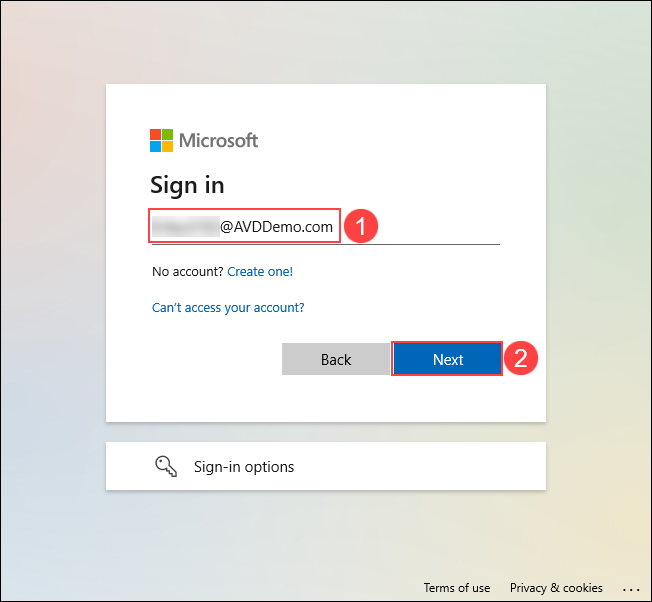
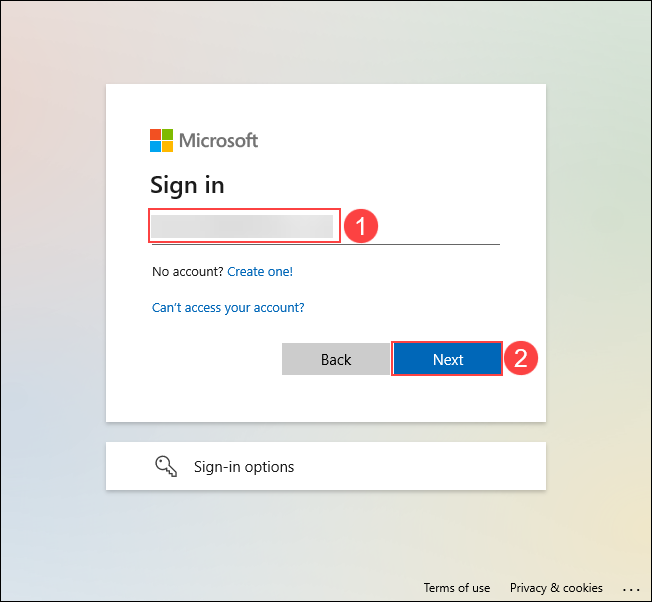
h

Changed region(s): [[0.3374, 0.3588, 0.5215, 0.4186]]

diff --git a/Demo01.md b/Demo01.md
@@ -37,15 +37,16 @@ In this demo, we will access the "Remote Desktop Connection" RemoteApp to connec
 
 1. Open the below URL for Remote Desktop Web Client in a new browser tab on the JumpVM or your computer. 
       ```
-      https://aka.ms/wvdarmweb
+      https://aka.ms/avdwebarm
       ```
 
 
 2. Enter the credentials as below:
 
    - Enter the username as below and click **Next**.
-   
-   **<inject key="AzureAdUserEmail" />**  
+       ```
+       Emma.4896@AVDDemo.com
+       ```   
 
    ![ws name.](media/img10.png)
    
